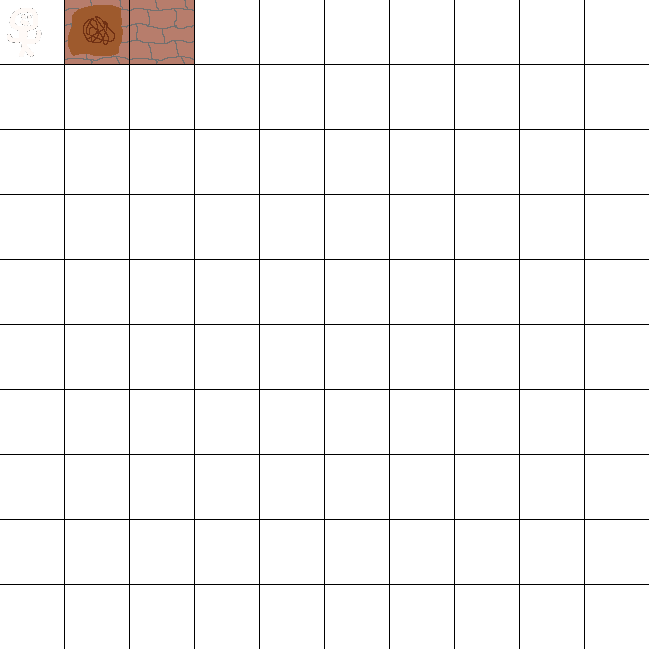
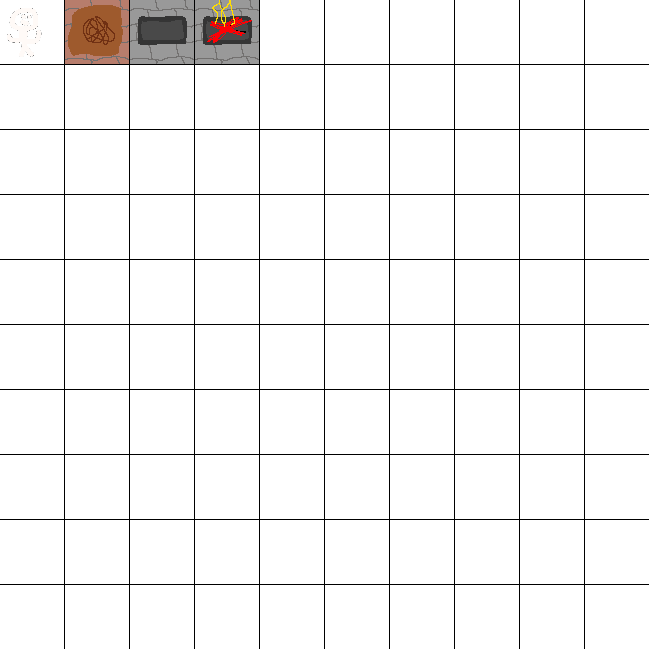
Entities and Stuff

Changed region(s): [[0.1849, 0.0, 0.4006, 0.1233]]

diff --git a/LD28/src/com/ionprogramming/ld28/entities/PressurePlate.java b/LD28/src/com/ionprogramming/ld28/entities/PressurePlate.java
@@ -1,0 +1,31 @@
+package com.ionprogramming.ld28.entities;
+
+import com.ionprogramming.ld28.Game;
+import com.ionprogramming.ld28.gfx.Images;
+
+public class PressurePlate extends Entity {
+
+	public PressurePlate(int x, int y, int id){
+		this.xpos = x;
+		this.ypos = y;
+		imgs = Images.tiles;
+		currentImage = 2;
+		this.id = id;
+	}
+	
+	@Override
+	public void ai(){
+		
+	}
+	
+	@Override
+	public void trigger(int id){
+		if(id == 1){
+			for(int e = 0; e < Game.entities.size(); e++){
+				if(Game.entities.get(e).id == this.id && Game.entities.get(e).getClass() != PressurePlate.class){
+					Game.entities.get(e).trigger(this.id);
+				}
+			}
+		}
+	}
+}

diff --git a/LD28/src/com/ionprogramming/ld28/level/Levels.java b/LD28/src/com/ionprogramming/ld28/level/Levels.java
@@ -4,14 +4,24 @@ import java.awt.Color;
 import java.awt.image.BufferedImage;
 
 import com.ionprogramming.ld28.Game;
+import com.ionprogramming.ld28.entities.FireShooter;
 import com.ionprogramming.ld28.entities.Player;
+import com.ionprogramming.ld28.entities.PressurePlate;
 import com.ionprogramming.ld28.gfx.Images;
 
 public class Levels {
 
 	public static void init(int level){
 		if(level == 1){
+			
+
+			Game.entities.add(new PressurePlate(5, 5, 5));
+			Game.entities.add(new FireShooter(5, 7, 5));
+			
+			
 			Game.entities.add(new Player(1, 1));
+			
+			
 			Map.map = Map.format(load(Images.map1));
 		}
 	}

diff --git a/LD28/src/com/ionprogramming/ld28/entities/Player.java b/LD28/src/com/ionprogramming/ld28/entities/Player.java
@@ -10,6 +10,7 @@ public class Player extends Entity{
 		this.ypos = ypos;
 		imgs = Images.tiles;
 		movable = true;
+		this.id = 1;
 	}
 	
 	@Override
@@ -57,6 +58,12 @@ public class Player extends Entity{
 		}
 		else if(ypos*64 + yos + 32 - Game.povy > 2*Game.height/3){
 			Game.povy = ypos*64 + yos + 32 - 2*Game.height/3;
+		}
+		
+		for(int e = 0; e < Game.entities.size(); e++){
+			if(Game.entities.get(e).xpos == this.xpos && Game.entities.get(e).ypos == this.ypos){
+				Game.entities.get(e).trigger(this.id);
+			}
 		}
 	}
 }

diff --git a/LD28/src/com/ionprogramming/ld28/entities/FireShooter.java b/LD28/src/com/ionprogramming/ld28/entities/FireShooter.java
@@ -1,0 +1,27 @@
+package com.ionprogramming.ld28.entities;
+
+import com.ionprogramming.ld28.gfx.Images;
+
+public class FireShooter extends Entity {
+
+	public FireShooter(int x, int y, int id){
+		this.xpos = x;
+		this.ypos = y;
+		imgs = Images.tiles;
+		currentImage = 3;
+		this.id = id;
+	}
+	
+	@Override
+	public void ai(){
+		
+	}
+	
+	@Override
+	public void trigger(int id){
+		if(id == this.id){
+			this.destroy();	
+		}
+		
+	}
+}

diff --git a/LD28/src/com/ionprogramming/ld28/entities/Entity.java b/LD28/src/com/ionprogramming/ld28/entities/Entity.java
@@ -8,6 +8,7 @@ import com.ionprogramming.ld28.level.Map;
 
 public class Entity {
 
+	public int id = 0;
 	public int speed = 4;
 	public int xpos;
 	public int ypos;
@@ -73,5 +74,9 @@ public class Entity {
 		if(e >= 0){
 			Game.entities.remove(e);
 		}
+	}
+	
+	public void trigger(int id){
+		
 	}
 }

diff --git a/LD28/src/com/ionprogramming/ld28/Game.java b/LD28/src/com/ionprogramming/ld28/Game.java
@@ -44,7 +44,7 @@ public class Game extends Applet implements Runnable, KeyListener{
 	double sleepTime;
 	static double FPS = 60;
 	
-	public static boolean titleScreen = false;
+	public static boolean titleScreen = true;
 	
 	public static ArrayList<Entity> entities = new ArrayList<Entity>();
 	
